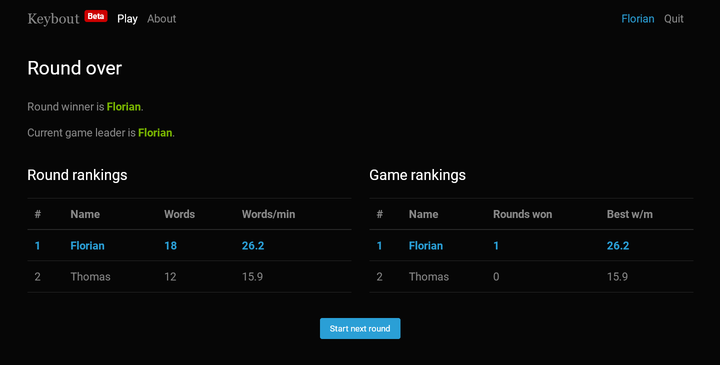
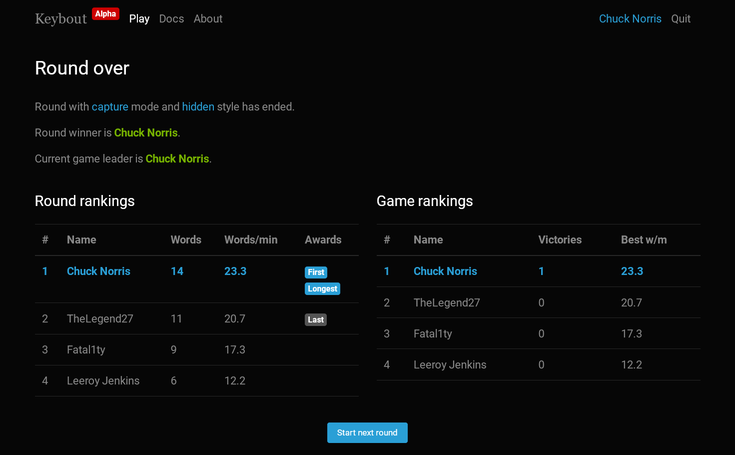
Updated the snapshots

diff --git a/keybout-frontend/src/app/demo/demo.component.ts b/keybout-frontend/src/app/demo/demo.component.ts
@@ -1,0 +1,110 @@
+import {Component, OnInit} from '@angular/core';
+import {PlayService} from '../play/play.service';
+import {ClientState, Game} from '../play/model';
+import {Router} from '@angular/router';
+
+@Component({
+  selector: 'app-demo',
+  templateUrl: './demo.component.html'
+})
+export class DemoComponent implements OnInit {
+
+  game = new Game(0, 'Chuck Norris', 'capture', 'hidden', 2,
+    'en', 10, 'standard', ['TheLegend27', 'Fatal1ty', 'Leeroy Jenkins']);
+
+  constructor(private playService: PlayService, private router: Router) {
+  }
+
+  ngOnInit() {
+  }
+
+  gamesDemo() {
+    this.playService.updateGamesList(
+      [{
+        id: this.game.id,
+        players: this.game.players,
+        mode: this.game.mode,
+        style: this.game.style,
+        language: this.game.language,
+        wordsLength: this.game.wordsLength,
+        creator: this.game.creator,
+        rounds: this.game.rounds,
+        wordsCount: this.game.wordsCount
+      }]);
+    this.redirect();
+  }
+
+  playDemo() {
+    this.playService.game = this.game;
+    this.playService.updateWords(
+      {
+        await: ['Chuck Norris', 'awa_t'],
+        avoid: ['Fatal1ty', 'avo_d'],
+        banking: ['', 'ba_kin_'],
+        juror: ['', '_uror'],
+        crucial: ['Chuck Norris', 'cr_cia_'],
+        energy: ['', 'e_ergy'],
+        writer: ['', 'wri_er'],
+        policy: ['TheLegend27', 'po_icy'],
+        frankly: ['', 'fr_n_ly'],
+        formula: ['TheLegend27', 'f_r_ula'],
+        attorney: ['Fatal1ty', 'a_torne_'],
+        chest: ['', 'che_t'],
+        blind: ['', 'blin_'],
+        radical: ['Fatal1ty', 'r_di_al'],
+        grand: ['TheLegend27', 'gr_nd'],
+        though: ['', 'tho_gh'],
+        blame: ['TheLegend27', 'b_ame'],
+        statue: ['', 'statu_'],
+        rhythm: ['', 'rh_thm'],
+        thigh: ['', 'th_gh'],
+        field: ['TheLegend27', 'fiel_'],
+        manual: ['', 'man_al'],
+        highway: ['', 'hi__way'],
+        prize: ['', 'p_ize'],
+        member: ['Fatal1ty', 'memb_r'],
+        power: ['Chuck Norris', 'po_er'],
+        patch: ['Chuck Norris', 'pa_ch'],
+        backyard: ['', 'ba_kyar_'],
+        weigh: ['', 'we_gh'],
+        pregnant: ['', 'preg_an_'],
+        define: ['', 'defin_'],
+        enemy: ['TheLegend27', 'ene_y'],
+        onion: ['Chuck Norris', 'onio_'],
+        valid: ['', 'va_id'],
+        borrow: ['TheLegend27', '_orrow'],
+        please: ['', 'ple_se'],
+        arrival: ['', 'arr_v_l'],
+        strongly: ['Fatal1ty', 's_rongl_'],
+        everyone: ['', 'ev_ryo_e'],
+        begin: ['', '_egin']
+      });
+    this.playService.state = ClientState.RUNNING;
+    this.redirect();
+  }
+
+  scoresDemo() {
+    this.playService.game = this.game;
+    this.playService.roundScores = [
+      {userName: 'Chuck Norris', points: 14, wpm: 23.34, awards: 3, awardsNames: []},
+      {userName: 'TheLegend27', points: 11, wpm: 20.67, awards: 4, awardsNames: []},
+      {userName: 'Fatal1ty', points: 9, wpm: 17.25, awards: 0, awardsNames: []},
+      {userName: 'Leeroy Jenkins', points: 6, wpm: 12.16, awards: 0, awardsNames: []}
+    ];
+    this.playService.updateRoundAwards();
+    this.playService.gameScores = [
+      {userName: 'Chuck Norris', points: 1, wpm: 23.34, awards: 0, awardsNames: []},
+      {userName: 'TheLegend27', points: 0, wpm: 20.67, awards: 0, awardsNames: []},
+      {userName: 'Fatal1ty', points: 0, wpm: 17.25, awards: 0, awardsNames: []},
+      {userName: 'Leeroy Jenkins', points: 0, wpm: 12.16, awards: 0, awardsNames: []}
+    ];
+    this.playService.gameManager = this.game.creator;
+    this.playService.gameOver = false;
+    this.playService.state = ClientState.SCORES;
+    this.redirect();
+  }
+
+  redirect() {
+    this.router.navigate(['/play']);
+  }
+}

diff --git a/keybout-frontend/src/app/app-routing.module.ts b/keybout-frontend/src/app/app-routing.module.ts
@@ -2,6 +2,7 @@ import {NgModule} from '@angular/core';
 import {Routes, RouterModule} from '@angular/router';
 import {HomeComponent} from './home/home.component';
 import {PlayComponent} from './play/play.component';
+import {DemoComponent} from './demo/demo.component';
 import {DocumentationComponent} from './documentation/documentation.component';
 import {AboutComponent} from './about/about.component';
 
@@ -9,6 +10,7 @@ const routes: Routes = [
   {path: '', redirectTo: '/home', pathMatch: 'full'},
   {path: 'home', component: HomeComponent},
   {path: 'play', component: PlayComponent},
+  {path: 'demo', component: DemoComponent},
   {path: 'docs', component: DocumentationComponent},
   {path: 'about', component: AboutComponent},
 ];

diff --git a/keybout-frontend/src/app/app.module.ts b/keybout-frontend/src/app/app.module.ts
@@ -13,6 +13,7 @@ import {GamesComponent} from './play/games/games.component';
 import {StartComponent} from './play/start/start.component';
 import {GameComponent} from './play/game/game.component';
 import {ScoresComponent} from './play/scores/scores.component';
+import {DemoComponent} from './demo/demo.component';
 import {DocumentationComponent} from './documentation/documentation.component';
 import {AboutComponent} from './about/about.component';
 
@@ -26,6 +27,7 @@ import {AboutComponent} from './about/about.component';
     StartComponent,
     GameComponent,
     ScoresComponent,
+    DemoComponent,
     DocumentationComponent,
     AboutComponent
   ],

diff --git a/keybout-frontend/src/app/play/model.ts b/keybout-frontend/src/app/play/model.ts
@@ -64,6 +64,18 @@ export class Game {
   wordsCount: number;
   wordsLength: string;
   players: string[];
+
+  constructor(id: number, creator: string, mode: string, style: string, rounds: number, language: string, wordsCount: number, wordsLength: string, players: string[]) {
+    this.id = id;
+    this.creator = creator;
+    this.mode = mode;
+    this.style = style;
+    this.rounds = rounds;
+    this.language = language;
+    this.wordsCount = wordsCount;
+    this.wordsLength = wordsLength;
+    this.players = players;
+  }
 }
 
 export class Word {

diff --git a/keybout-frontend/src/app/app.component.html b/keybout-frontend/src/app/app.component.html
@@ -2,7 +2,7 @@
   <div class="container">
     <a routerLinkActive="white" class="navbar-brand serif larger" routerLink="/home">Keybout</a>
 
-    <span class="badge badge-danger ml-n2 mt-n2">Alpha</span>
+    <span class="badge badge-danger ml-n2 mt-n3">Alpha</span>
 
     <button class="navbar-toggler" type="button" data-toggle="collapse" data-target="#navbarColor02"
             aria-controls="navbarColor02" aria-expanded="false" aria-label="Toggle navigation">

diff --git a/keybout-frontend/src/app/demo/demo.component.html b/keybout-frontend/src/app/demo/demo.component.html
@@ -1,0 +1,6 @@
+<div class="container">
+  <h4>Demo</h4>
+  <p><button class="btn btn-primary" (click)="gamesDemo()">Games demo</button></p>
+  <p><button class="btn btn-primary" (click)="playDemo()">Play demo</button></p>
+  <p><button class="btn btn-primary" (click)="scoresDemo()">Scores demo</button></p>
+</div>
